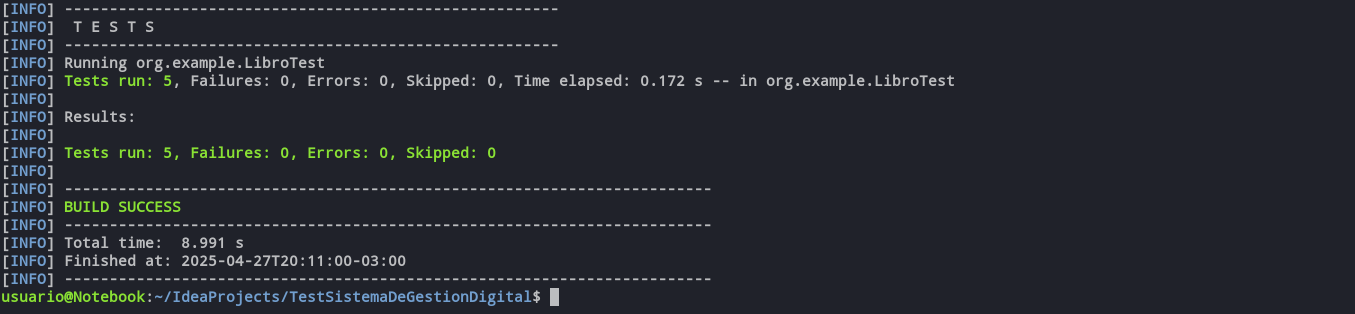
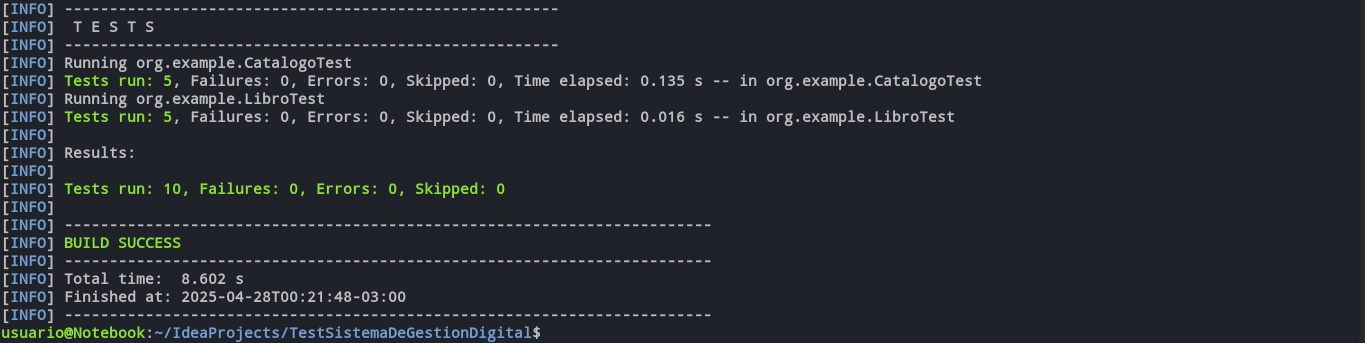
Tests de clase Catalogo.

Changed region(s): [[0.0, 0.0, 0.7129, 1.0]]

diff --git a/src/test/java/org/example/CatalogoTest.java b/src/test/java/org/example/CatalogoTest.java
@@ -1,0 +1,87 @@
+package org.example;
+
+import org.example.enums.EstadoLibro;
+import org.example.modelos.Catalogo;
+import org.example.modelos.Libro;
+import org.junit.jupiter.api.BeforeEach;
+import org.junit.jupiter.api.Test;
+import org.junit.jupiter.api.Assertions;
+import java.util.ArrayList;
+import java.util.List;
+
+public class CatalogoTest {
+    Catalogo catalogo;
+    Libro libro1;
+    Libro libro2;
+
+    @BeforeEach
+    public void setUp() {
+        this.catalogo = new Catalogo();
+        this.libro1 = new Libro("09788420471839", "Cien Años De Soledad", "Gabriel García Márquez");
+        this.libro2 = new Libro("9788494220579", "Drácula", "Bram Stoker");
+    }
+
+    @Test
+    void testObtenerLibrosDisponibles() {
+        this.catalogo.agregarLibro(libro1);
+        this.catalogo.agregarLibro(libro2);
+
+        List<Libro> librosDisponibles = new ArrayList<>();
+        librosDisponibles.add(libro1);
+        librosDisponibles.add(libro2);
+
+        Assertions.assertEquals(2, this.catalogo.getLibros().size());
+        Assertions.assertEquals(librosDisponibles,this.catalogo.getLibros());
+
+        this.libro2.setEstado(EstadoLibro.PRESTADO);
+        Assertions.assertEquals(1, this.catalogo.getLibros().size());
+        Assertions.assertNotEquals(librosDisponibles, this.catalogo.getLibros());
+    }
+
+    @Test
+    void testAgregarLibro() {
+        this.catalogo.agregarLibro(libro1);
+        Assertions.assertTrue(this.catalogo.getLibros().contains(libro1));
+        Assertions.assertEquals(libro1, this.catalogo.getLibros().getFirst());
+
+        this.catalogo.agregarLibro(libro2);
+        Assertions.assertTrue(this.catalogo.getLibros().contains(libro2));
+        Assertions.assertEquals(libro2, this.catalogo.getLibros().get(1));
+    }
+
+    @Test
+    void testEliminarLibro() {
+        this.catalogo.agregarLibro(libro1);
+        this.catalogo.agregarLibro(libro2);
+
+        this.catalogo.eliminarLibro(libro1);
+        Assertions.assertFalse(this.catalogo.getLibros().contains(libro1));
+        Assertions.assertTrue(this.catalogo.getLibros().contains(libro2));
+
+        this.catalogo.eliminarLibro(libro2);
+        Assertions.assertFalse(this.catalogo.getLibros().contains(libro2));
+    }
+
+    @Test
+    void testBuscarLibroExistentePorISBN() {
+        this.catalogo.agregarLibro(libro1);
+        Assertions.assertEquals(libro1, this.catalogo.buscarLibroPorISBN(libro1.getISBN()));
+
+        this.catalogo.agregarLibro(libro2);
+        Assertions.assertEquals(libro2, this.catalogo.buscarLibroPorISBN(libro2.getISBN()));
+
+        Libro libro = this.catalogo.buscarLibroPorISBN(libro1.getISBN());
+        Assertions.assertEquals("Cien Años De Soledad", libro.getTitulo());
+    }
+
+    @Test
+    void testBuscarLibroInexistentePorISBN() {
+        Assertions.assertNull(this.catalogo.buscarLibroPorISBN(libro1.getISBN()));
+        Assertions.assertNull(this.catalogo.buscarLibroPorISBN(libro2.getISBN()));
+
+        this.catalogo.agregarLibro(libro1);
+        this.catalogo.agregarLibro(libro2);
+
+        Assertions.assertNull(this.catalogo.buscarLibroPorISBN("012345678901234"));
+    }
+}

diff --git a/README.md b/README.md
@@ -31,9 +31,14 @@
  - Constructor: `Libro(String ISBN, String titulo, String autor)`
  - Métodos setter: `getISBN()`, `getTitulo()`, `getAutor()` y `getEstado()`
  - Métodos getter: `setISBN(String ISBN)`, `setTitulo(String titulo)`, `setAutor(String autor)`, `setEstado()`
- 
 ---
-
+## Clase Catalogo
+- Atributos:
+   - `ArrayList<Libro> libros`
+- Métodos que retorna los libros disponibles: `getLibros()`
+- Métodos para agregar y eliminar libros: `agregarLibro(Libro libro)`, `eliminarLibro(Libro libro)`
+- Método para buscar libro por ISBN: `buscarLibroPorISBN(String ISBN)`
+---
 # Resultados de los tests
 
 Resultados de la ejecución de todos los test:
